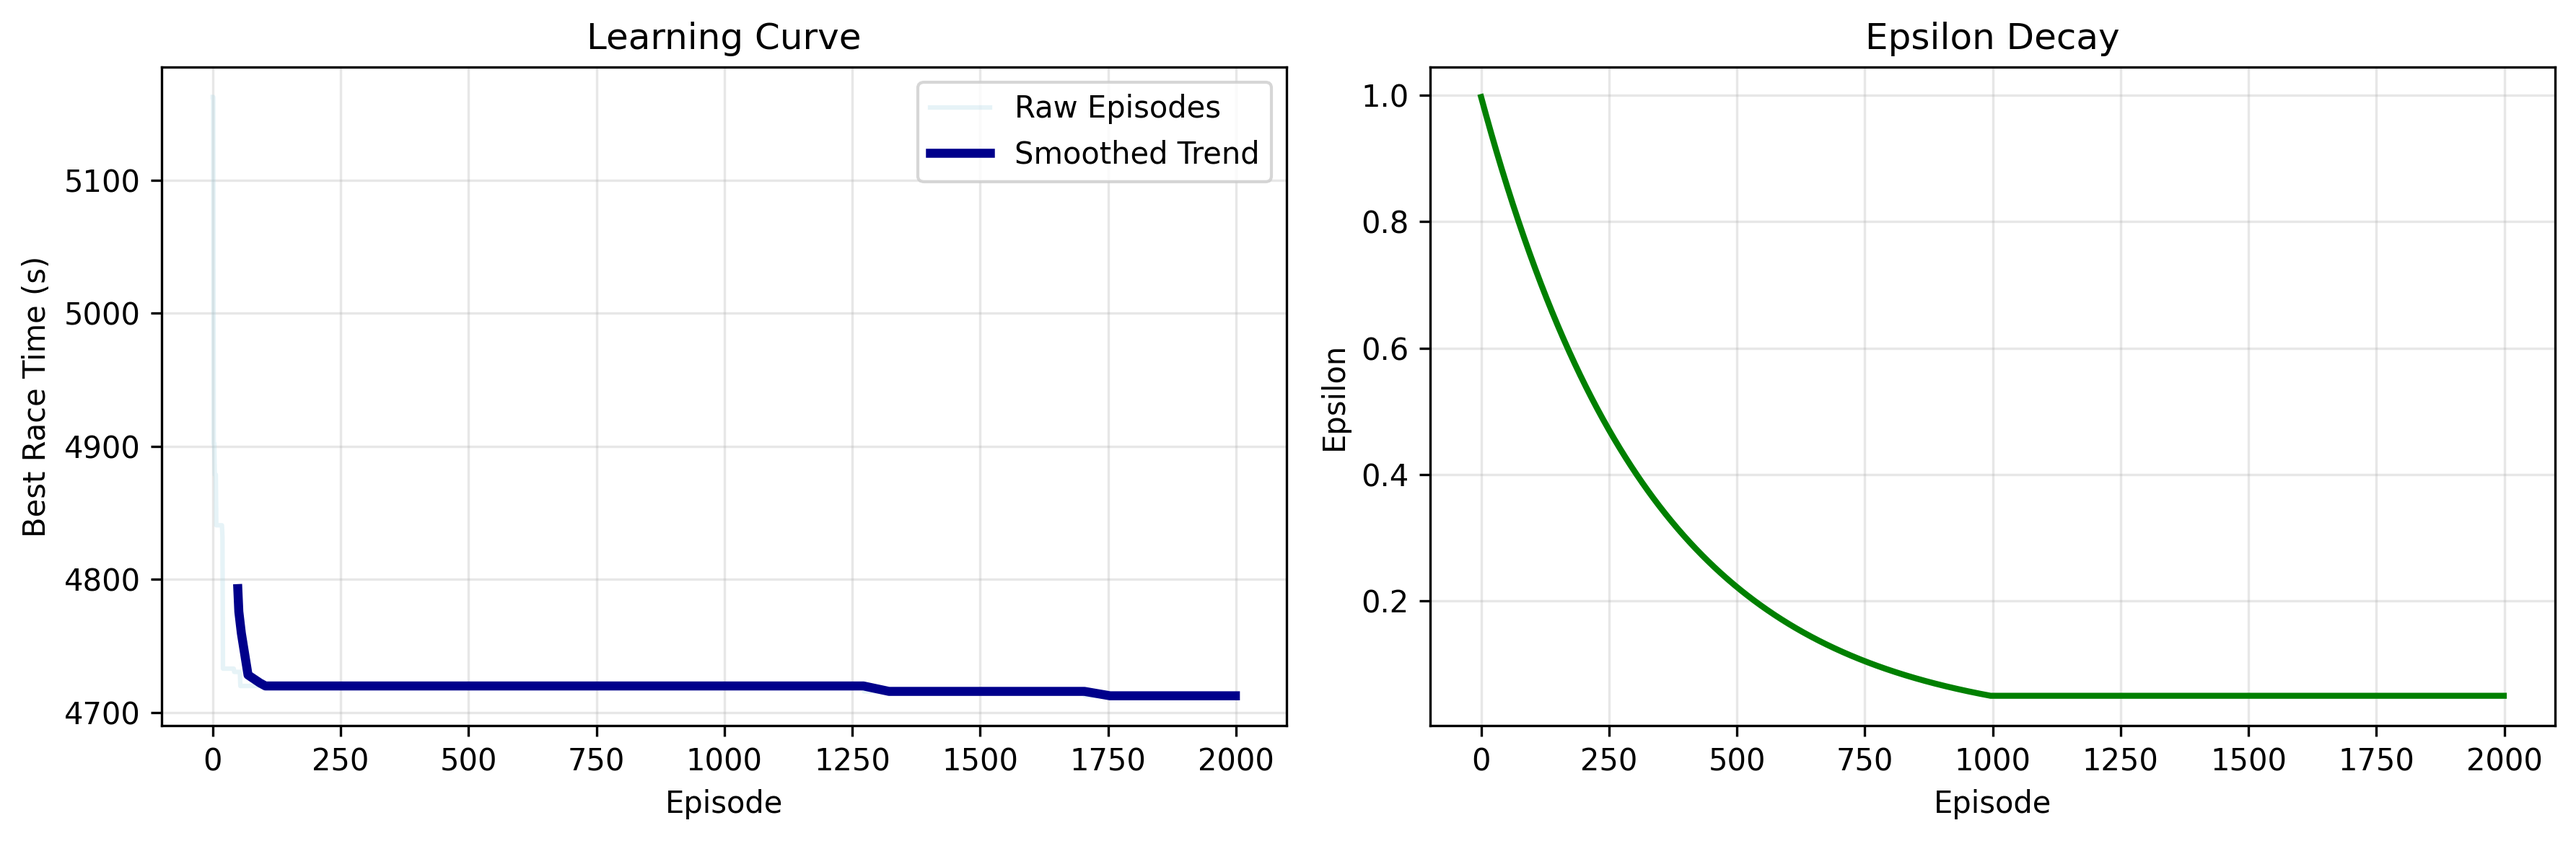
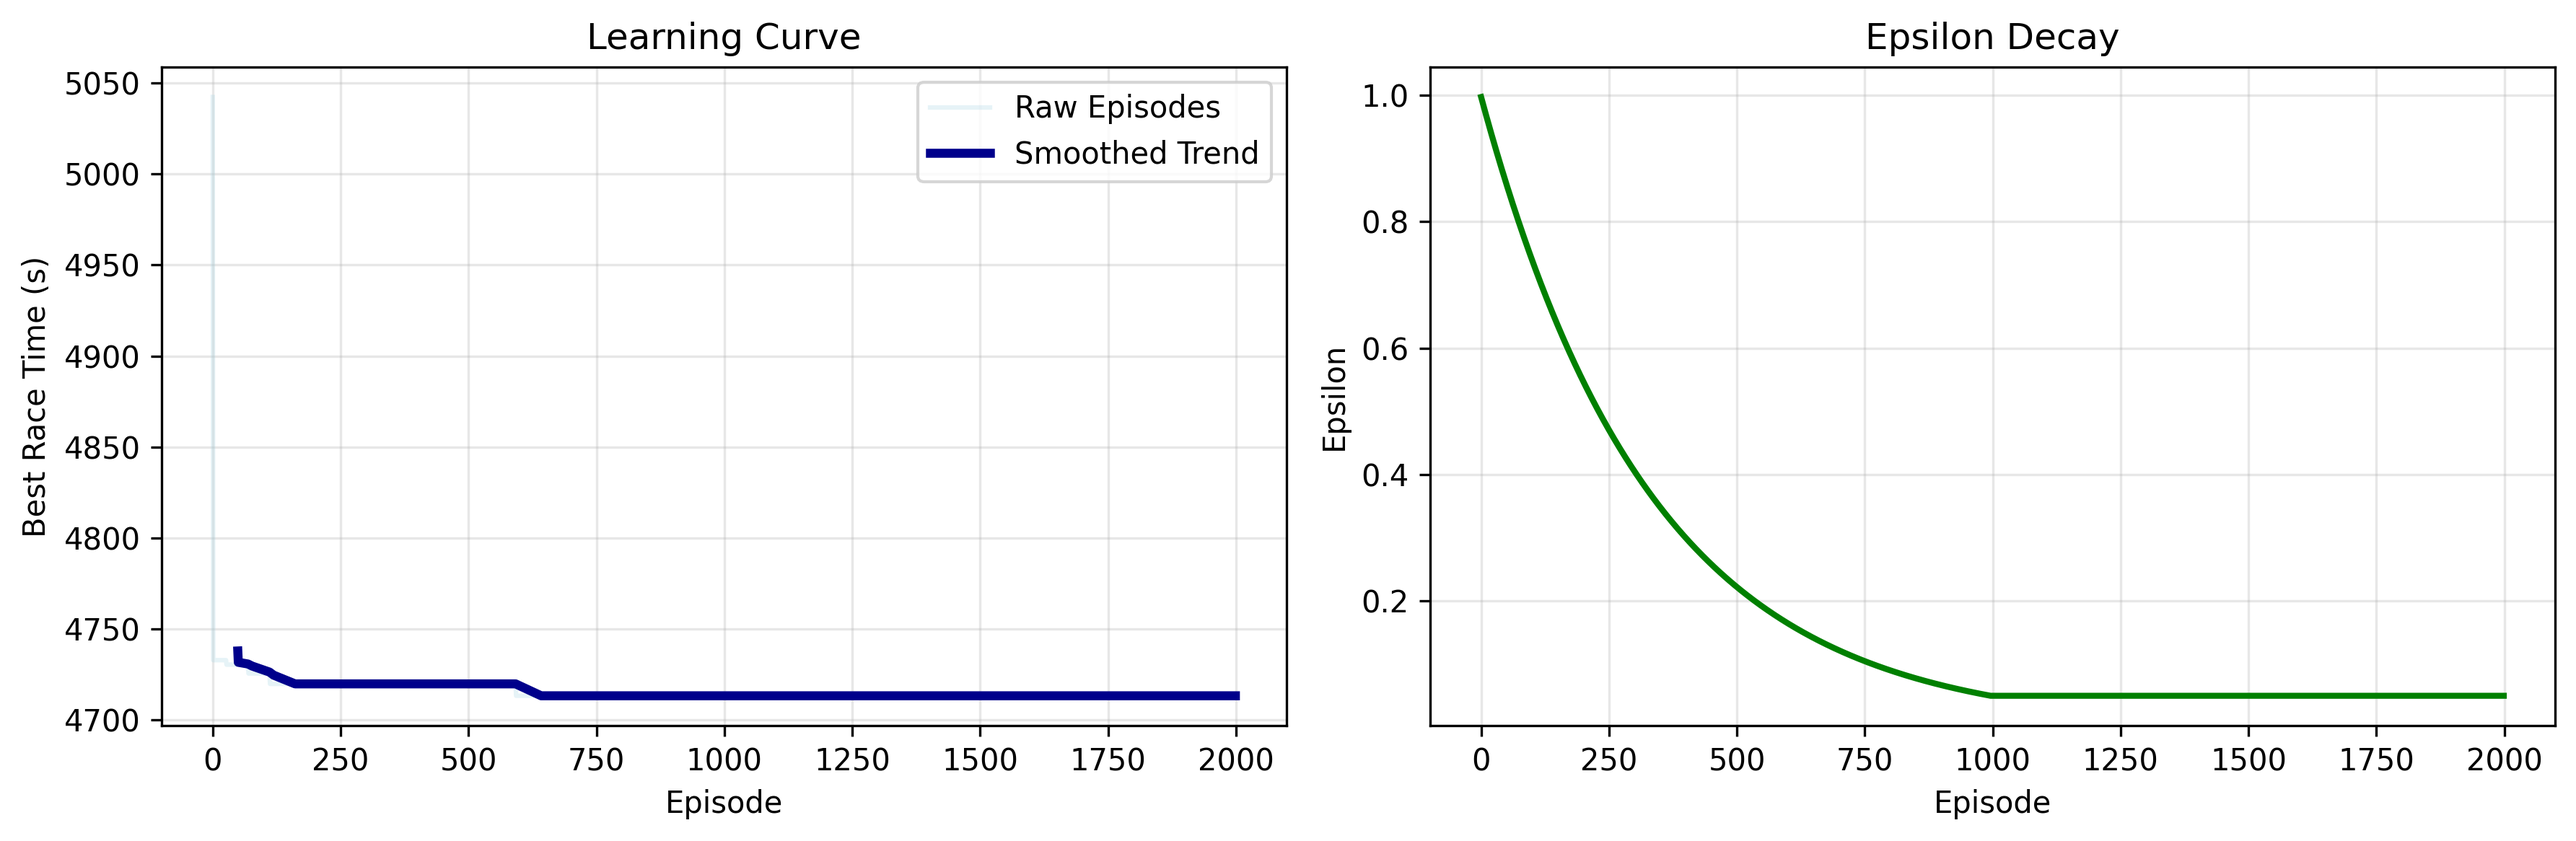
w23-multicar race

diff --git a/qlearning.py b/qlearning.py
@@ -107,7 +107,17 @@ def run_race_with_ai(agent, track="Silverstone_Fast", evaluation_mode=False, fix
     actual_time = race_simulation(
         sim_pit_laps, track, verbose=False, fixed_sc=fixed_sc)[0]
 
-    final_reward = -actual_time / 1000  # Lower time = higher reward
+    standings, positions, pos_score = race_standings(pit_laps)
+    # STEP 2: Normalize time vs human [0,1]
+    human_time, _, _, _ = race_simulation(
+        [20, 35], track, verbose=False, fixed_sc=fixed_sc)
+    time_score = (human_time - actual_time) / \
+        human_time  # +0.027 = 2.7% faster
+
+    # STEP 3: Combine (EQUAL weight - both normalized!)
+    final_reward = (pos_score + time_score) / 2
+    if len(pit_laps) > 2:
+        final_reward -= 3.0
 
     final_state = agent.get_state(
         track_data["laps"], tire_wear, fuel, current_compound, len(pit_laps))
@@ -133,6 +143,30 @@ def run_race_with_ai(agent, track="Silverstone_Fast", evaluation_mode=False, fix
     return pit_laps, actual_time, final_reward
 
 
+def race_standings(pit_strategies, track="Silverstone_Fast"):
+    opponents = {
+        "RedBull": [19, 36],
+        "Ferrari": [20, 35],
+        "McLaren": [18, 37],
+        "Mercedes": [21, 34],
+        "Aston": [22, 33]
+    }
+    all_times = {"AI": race_simulation(
+        pit_strategies, track, verbose=False)[0]}
+    for team, pits in opponents.items():
+        all_times[team] = race_simulation(pits, track, verbose=False)[0]
+
+    # Final positions (lower time = better position)
+    standings = sorted(all_times.items(), key=lambda x: x[1])
+    positions = {team: i+1 for i, (team, time) in enumerate(standings)}
+
+    # NORMALIZED POSITION SCORE [0,1] - P1=1.0, P6=0.0
+    num_cars = len(all_times)
+    pos_score = (num_cars - positions["AI"]) / (num_cars - 1)
+
+    return standings, positions, pos_score
+
+
 def train_ai(episodes=2000):
     agent = F1QAgent()
     best_time = float('inf')  # initialize best time as infinity
@@ -147,6 +181,11 @@ def train_ai(episodes=2000):
     for episode in range(episodes):
         agent.alpha = max(0.02, 0.1 * (0.995 ** episode))
         strategy, race_time, reward = run_race_with_ai(agent)
+        standings, positions, pos_score = race_standings(strategy)
+    if episode % 50 == 0:  # Print every 50 episodes
+        strat_display = [f"L{lap}{comp[0]}" for lap, comp in strategy]
+        print(
+            f"Ep {episode}: P{positions['AI']} | Score={pos_score:.2f} | {strat_display}")
 
         if race_time < best_time:
             best_time = race_time
@@ -155,12 +194,12 @@ def train_ai(episodes=2000):
         episode_times.append(best_time)
         epsilon_history.append(agent.epsilon)
 
-        if episode % 200 == 0:
-            strategy_display = [
-                f"L{lap}{comp[0]}" for lap, comp in best_strategy]
-            print(f"Ep {episode}: ε={agent.epsilon:.3f} | Best={best_time:.0f}s| "
-                  f"Strategy={strategy_display} | "
-                  f"Q-Table={len(agent.q_table)}")
+        # if episode % 200 == 0:
+        #     strategy_display = [
+        #         f"L{lap}{comp[0]}" for lap, comp in best_strategy]
+        #     print(f"Ep {episode}: ε={agent.epsilon:.3f} | Best={best_time:.0f}s| "
+        #           f"Strategy={strategy_display} | "
+        #           f"Q-Table={len(agent.q_table)}")
 
     return agent, best_strategy, best_time, episode_times, epsilon_history
 
@@ -173,40 +212,40 @@ if __name__ == "__main__":
     def moving_average(data, window=50):
         return np.convolve(data, np.ones(window)/window, mode='valid')
 
-    # PLOT LEARNING CURVE
-    plt.figure(figsize=(12, 4))
+    # # PLOT LEARNING CURVE
+    # plt.figure(figsize=(12, 4))
 
-    plt.subplot(1, 2, 1)
-    smoothed_times = moving_average(episode_times, 50)
-    plt.plot(episode_times, alpha=0.3, color='lightblue', label="Raw Episodes")
-    plt.plot(range(49, len(smoothed_times)+49), smoothed_times,
-             linewidth=3, color='darkblue', label="Smoothed Trend")
-    plt.title('Learning Curve')
-    plt.ylabel('Best Race Time (s)')
-    plt.xlabel('Episode')
-    plt.legend()
-    plt.grid(True, alpha=0.3)
+    # plt.subplot(1, 2, 1)
+    # smoothed_times = moving_average(episode_times, 50)
+    # plt.plot(episode_times, alpha=0.3, color='lightblue', label="Raw Episodes")
+    # plt.plot(range(49, len(smoothed_times)+49), smoothed_times,
+    #          linewidth=3, color='darkblue', label="Smoothed Trend")
+    # plt.title('Learning Curve')
+    # plt.ylabel('Best Race Time (s)')
+    # plt.xlabel('Episode')
+    # plt.legend()
+    # plt.grid(True, alpha=0.3)
 
-    plt.subplot(1, 2, 2)
-    plt.plot(epsilon_history, linewidth=2, color='green')
-    plt.title('Epsilon Decay')
-    plt.ylabel('Epsilon')
-    plt.xlabel('Episode')
-    plt.grid(True, alpha=0.3)
+    # plt.subplot(1, 2, 2)
+    # plt.plot(epsilon_history, linewidth=2, color='green')
+    # plt.title('Epsilon Decay')
+    # plt.ylabel('Epsilon')
+    # plt.xlabel('Episode')
+    # plt.grid(True, alpha=0.3)
 
-    plt.tight_layout()
-    plt.savefig('week22_learning_curve.png', dpi=300, bbox_inches='tight')
-    plt.show()
-    print("📈 Learning curve saved: week22_learning_curve.png")
+    # plt.tight_layout()
+    # plt.savefig('week22_learning_curve.png', dpi=300, bbox_inches='tight')
+    # plt.show()
+    # print("📈 Learning curve saved: week22_learning_curve.png")
 
     # Compare Q vs human
     human_time, _, _, _ = race_simulation(
         [20, 35], "Silverstone_Fast", verbose=False)
 
    # PAIRED EVALUATION - SAME ENVIRONMENT
-print("\n" + "="*70)
-print("🔬 PAIRED EVALUATION: Identical Race Conditions")
-print("="*70)
+# print("\n" + "="*70)
+# print("🔬 PAIRED EVALUATION: Identical Race Conditions")
+# print("="*70)
 
 fixed_sc = safety_car_periods(F1_CONFIG["Silverstone_Fast"]['laps'])
 
@@ -228,9 +267,14 @@ final_strategy = max(set(tuple(s) for s in eval_strategies), key=[
 human_time, _, _, _ = race_simulation(
     [20, 35], "Silverstone_Fast", fixed_sc=fixed_sc, verbose=False)
 
-print(
-    f"🤖 TRAINED AI:     {final_strategy} → {final_time:.0f}s ±{final_std:.0f}s")
+# print(
+#     f"🤖 TRAINED AI:     {final_strategy} → {final_time:.0f}s ±{final_std:.0f}s")
 print(f"👨  Human:         [20,35] → {human_time:.0f}s")
 gain = human_time - final_time
 print(f"🎯 AI GAINS:       {gain:.0f}s ({gain/human_time*100:.1f}%)")
 print("="*70)
+
+# Quick test
+standings, positions, pos_score = race_standings([16, 33])
+print(f"AI Position: {positions['AI']}, Score: {pos_score:.2f}")
+print("Top 3:", [team for team, pos in positions.items() if pos <= 3])
